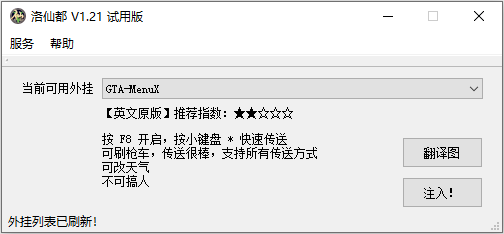
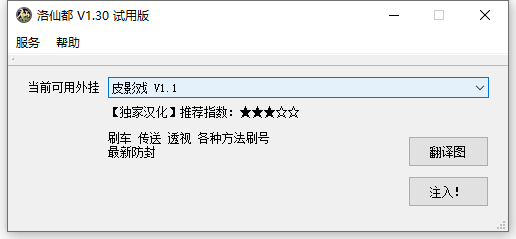
update to 1.30

diff --git a/index.md b/index.md
@@ -3,12 +3,16 @@ GTA5最好的免费外挂平台
 
 ![主界面](mainwindow.png)
 
-最新版本V1.22
-[点击下载](//github.com/luoxiandu/luoxiandu.com/releases/download/1.22/release.exe)
+最新版本V1.30
+[点击下载](//github.com/luoxiandu/luoxiandu.com/releases/download/1.30/release.exe)
 
 当前试用政策：每个试用用户每次登录最长可试用一小时，不限制登录次数和请求次数
 
 ## 更新日志
+### 2019-5-30 V1.30
+- 多线程重构大量阻塞逻辑
+- 实现外挂配置及资源文件的自动安装
+
 ### 2019-5-29 V1.22
 - 彻底解决登录稳定性问题
 
